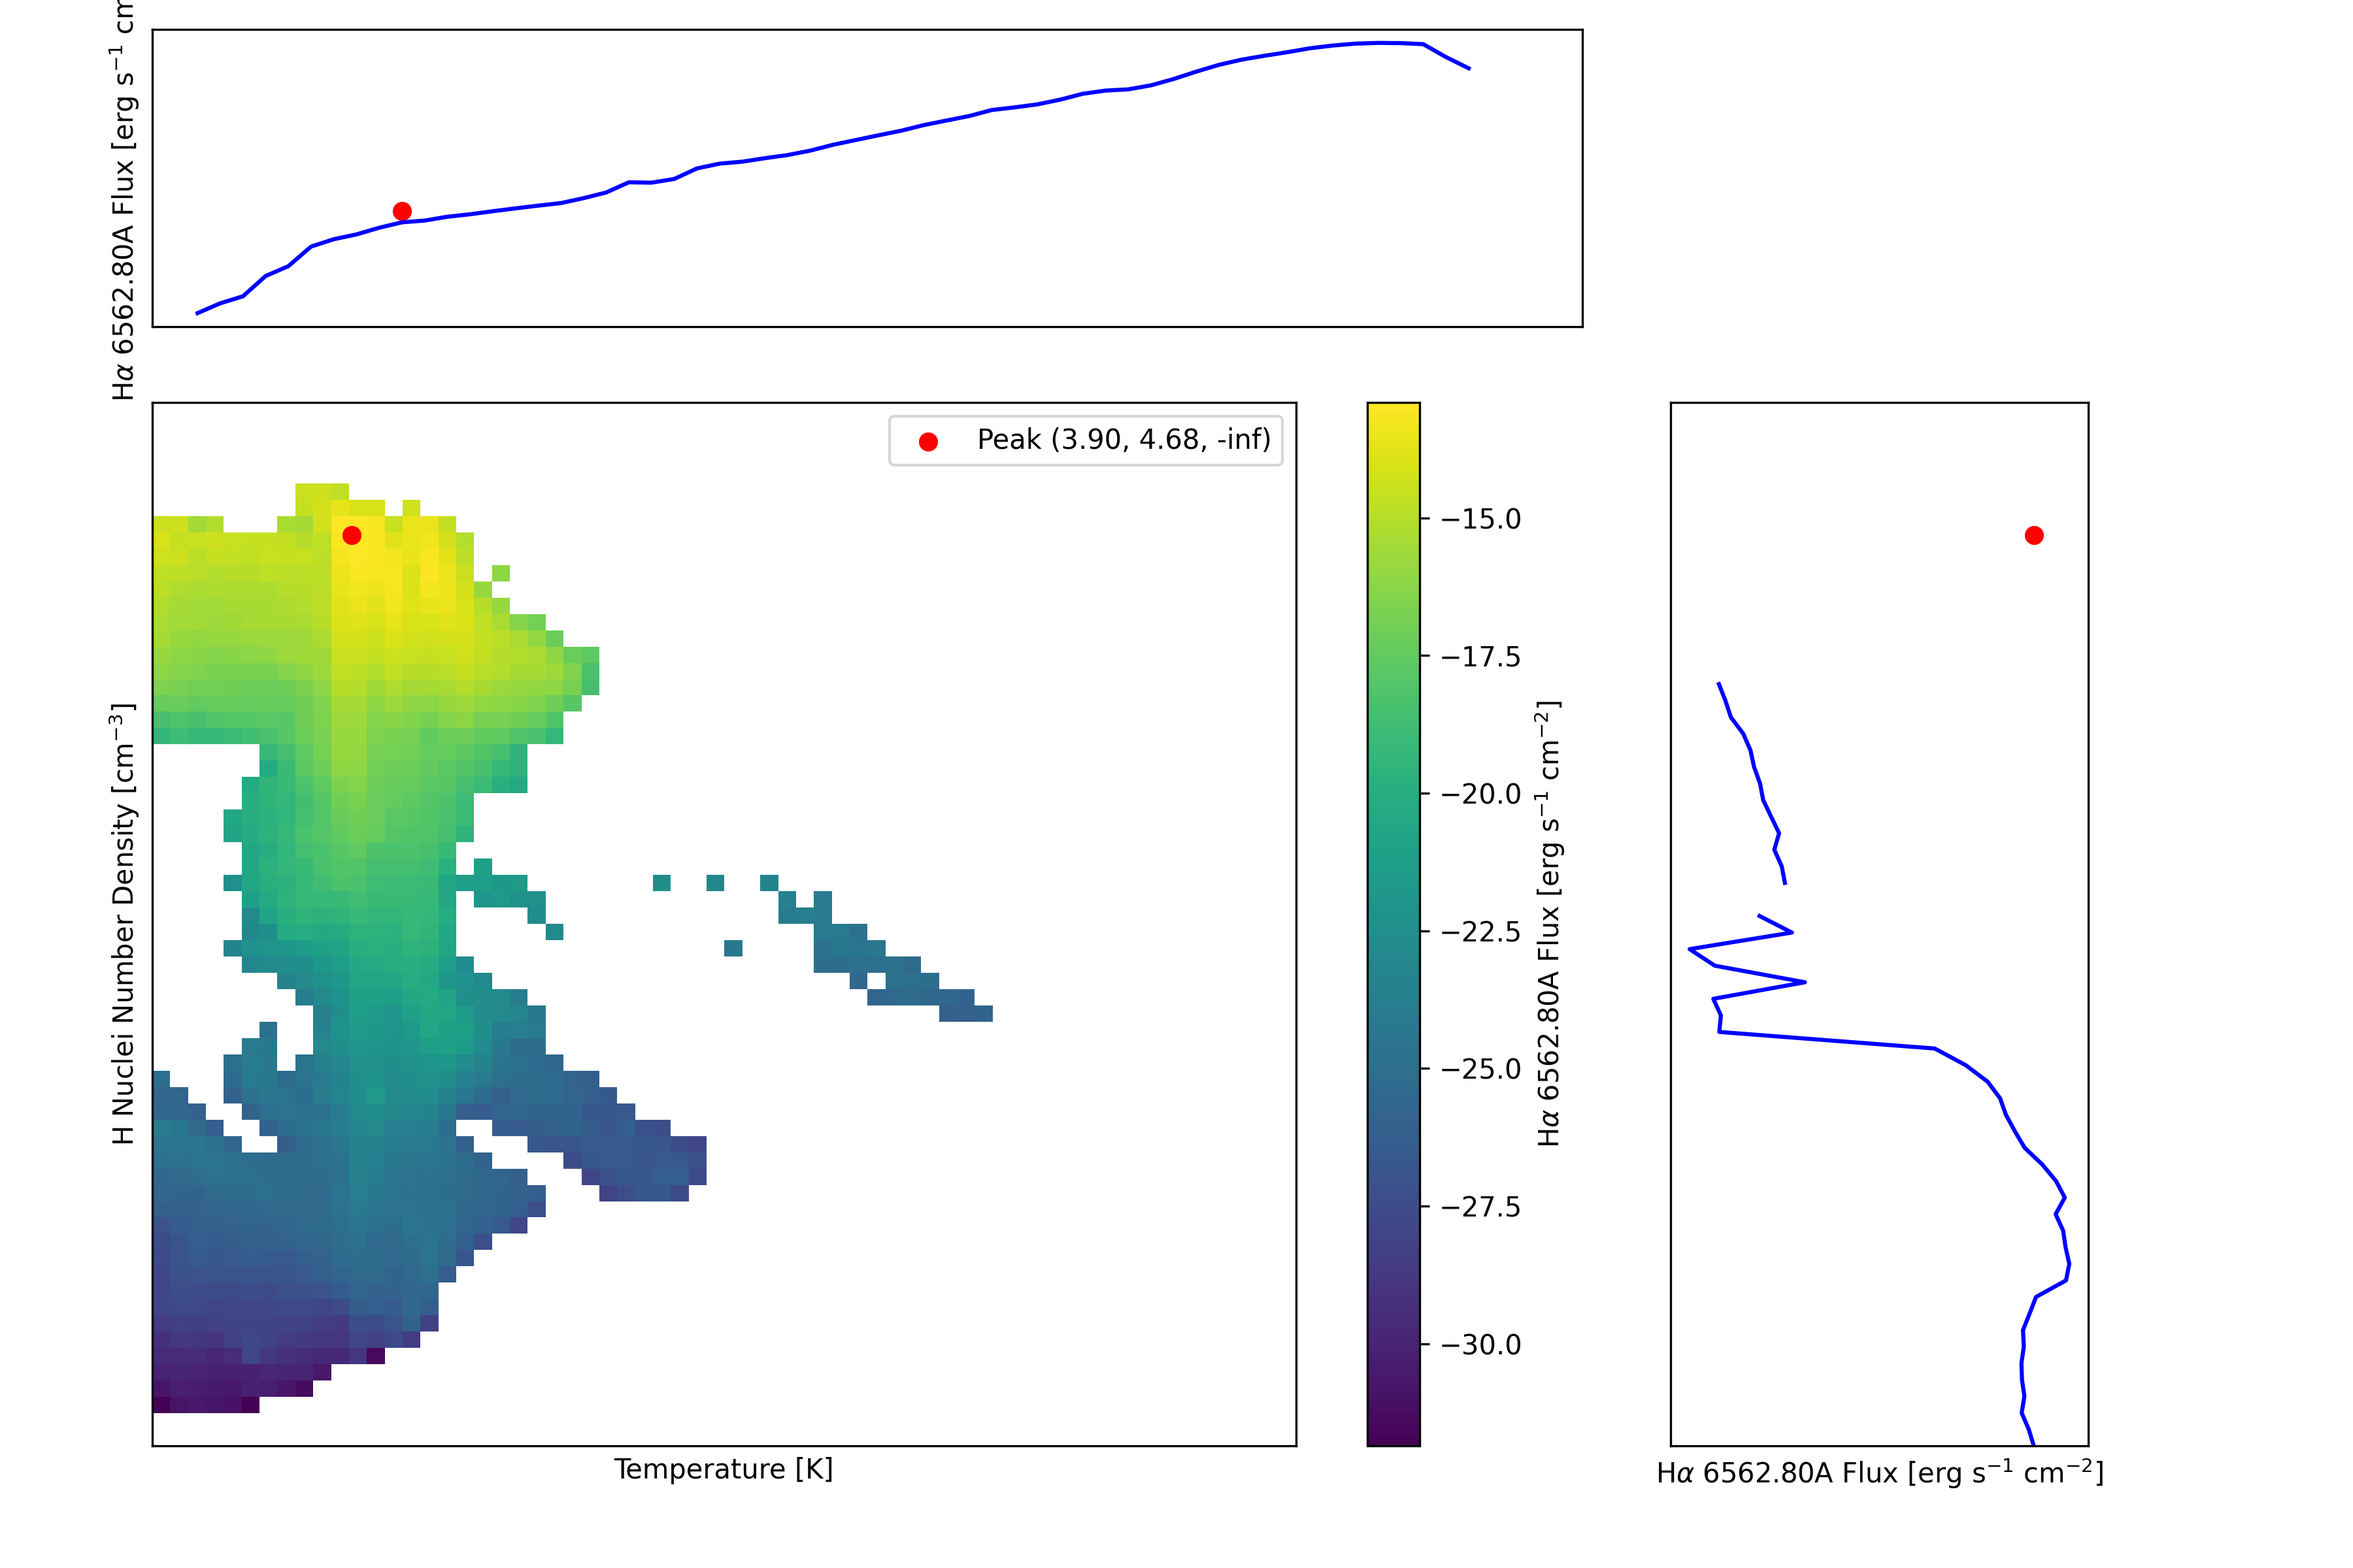
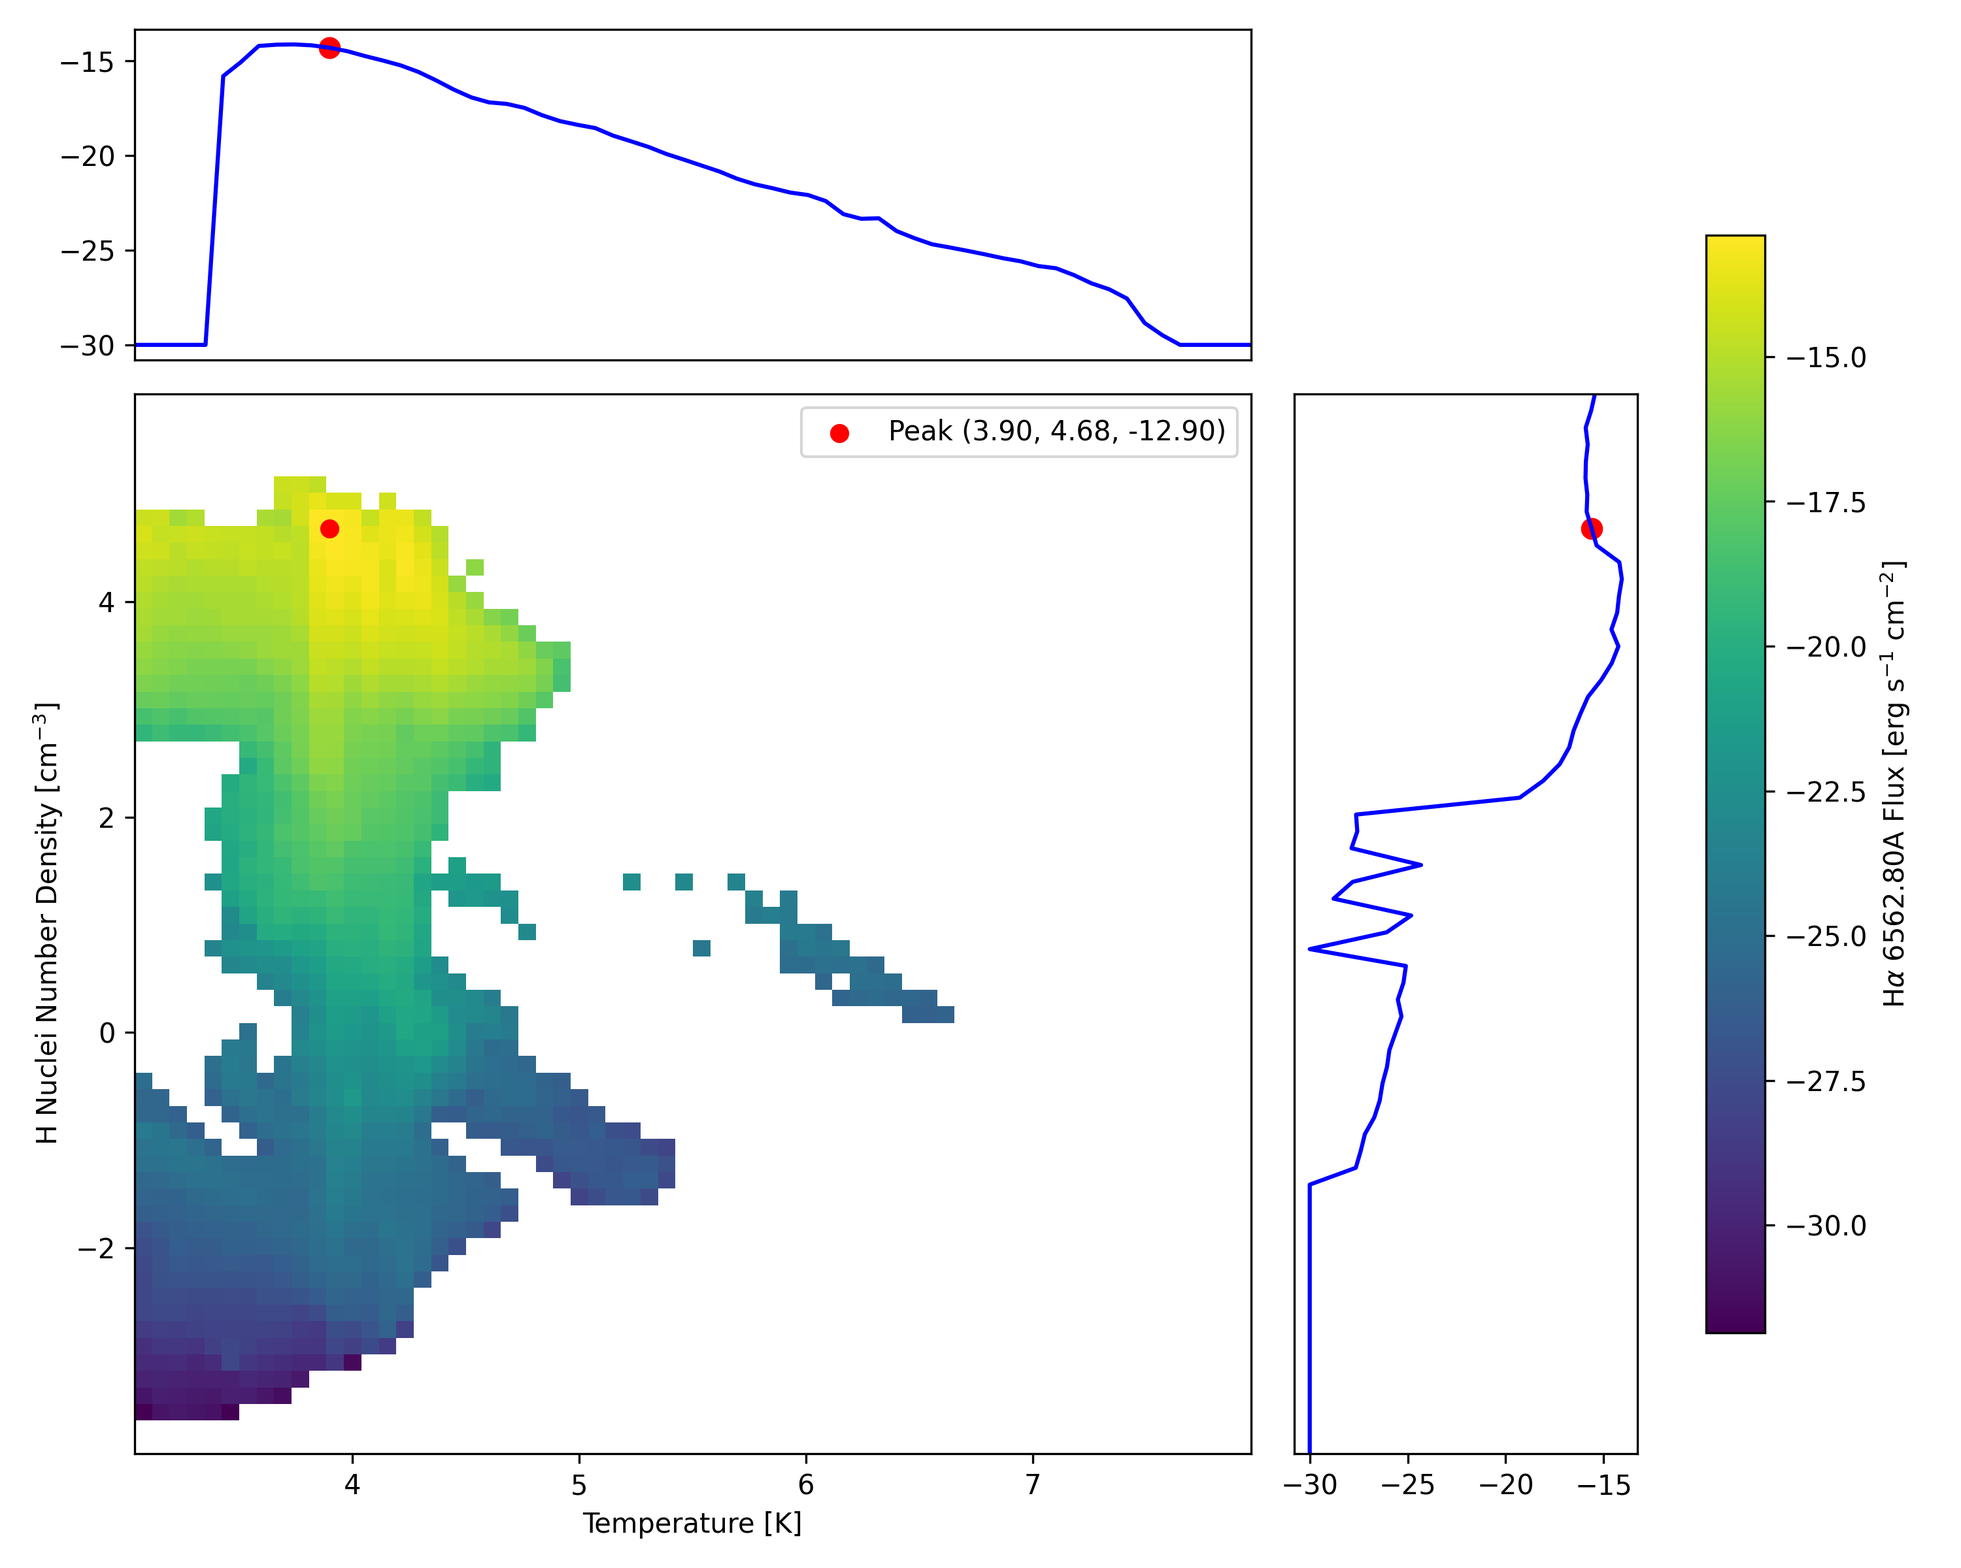
tweaks to phase with profile

diff --git a/nebular_lines_v2/galaxy_visualization.py b/nebular_lines_v2/galaxy_visualization.py
@@ -514,83 +514,70 @@ class VisualizationManager:
         plt.close()
     '''
 
-    
     def phase_with_profiles(self, ds, sp, phase_profile,
                         x_field, y_field, z_field,
                         x_vals, y_vals, z_vals, x_label, y_label,
                         z_label):
-        '''
-        Generate a phase plot with additional profile plots.
-        '''
-
         plot_title = f'{self.output_file}_' + \
-            f'{x_field[1]}_{y_field[1]}_{z_field[1]}_phase_profile.png'
+                    f'{x_field[1]}_{y_field[1]}_{z_field[1]}_phase_profile.png'
 
         fname = os.path.join(self.directory, plot_title)
 
+        # Logarithmic scaling of the data
         x_vals = np.log10(x_vals)
         y_vals = np.log10(y_vals)
         z_vals = np.log10(z_vals).transpose()
 
-        # Find the location of the peak z value (max of z_vals)
+        # Find the location of the peak z value
         peak_z_idx = np.unravel_index(np.argmax(z_vals), z_vals.shape)[::-1]
         peak_x = x_vals[peak_z_idx[0]]
         peak_y = y_vals[peak_z_idx[1]]
-        peak_z = z_vals[peak_z_idx]
+        peak_z = z_vals[peak_z_idx[1]][peak_z_idx[0]]
 
         # Create the figure and gridspec layout
-        fig = plt.figure(figsize=(12, 8))
+        fig = plt.figure(figsize=(10, 8))
         gs = GridSpec(4, 4, figure=fig)
 
         # Central phase plot (imshow)
-        ax0 = fig.add_subplot(gs[1:4, 0:3])
+        ax0 = fig.add_subplot(gs[1:4, 0:3])  # Phase plot takes a larger area
         cax = ax0.imshow(z_vals, origin="lower", aspect="auto",
                          extent=(min(x_vals), max(x_vals), min(y_vals),
                                  max(y_vals)))
         ax0.set_xlabel(x_label)
         ax0.set_ylabel(y_label)
-
-        # Add the red dot marking the peak
         ax0.scatter(peak_x, peak_y, color="red",
                     label=f"Peak ({peak_x:.2f}, {peak_y:.2f}, {peak_z:.2f})")
         ax0.legend(loc="upper right")
 
         # Profile plot at the top (z vs x)
-        # Averaging over y bins (along each x slice)
-        ax1 = fig.add_subplot(gs[0, 0:3], sharex=ax0)
-        avg_z_vals_x = np.mean(10 ** z_vals, axis=1)
+        ax1 = fig.add_subplot(gs[0, 0:3])  # Profile plot touching the top border of phase plot
+        avg_z_vals_x = np.mean(10 ** z_vals, axis=1)[::-1]
+        avg_z_vals_x[avg_z_vals_x < 1e-30] = 1e-30
         ax1.plot(x_vals, np.log10(avg_z_vals_x), color="blue")
-
-        # Add red dot on the x-profile plot for the peak
-        ax1.scatter(peak_x, np.log10(avg_z_vals_x[np.argmax(z_vals[peak_z_idx[0], :])]), color="red", label=f"Peak ({peak_x:.2f})")
-        ax1.set_ylabel(z_label)
+        # Add a red dot at the peak location on the top profile
+        ax1.scatter(peak_x, np.log10(avg_z_vals_x[np.argmax(x_vals == peak_x)]), color='red', s=50)  # Single red dot at peak
+        ax1.set_xlim(ax0.get_xlim())  # Ensure x-axis of top profile matches phase plot
+        ax1.tick_params(axis='x', which='both', bottom=False, top=False)  # Remove x-axis ticks
+        ax1.set_xticklabels([])
 
         # Profile plot on the right (z vs y)
-        # Averaging over x bins (along each y slice)
-        ax2 = fig.add_subplot(gs[1:4, 3], sharey=ax0)
-        avg_z_vals_y = np.mean(10 ** z_vals, axis=0)
+        ax2 = fig.add_subplot(gs[1:4, 3])  # Profile plot touching the right border of phase plot
+        avg_z_vals_y = np.mean(10 ** z_vals, axis=0)[::-1]
+        avg_z_vals_y[avg_z_vals_y < 1e-30] = 1e-30
         ax2.plot(np.log10(avg_z_vals_y), y_vals, color="blue")
+        # Add a red dot at the peak location on the right profile
+        ax2.scatter(np.log10(avg_z_vals_y[np.argmax(y_vals == peak_y)]), peak_y, color='red', s=50)  # Single red dot at peak
+        ax2.set_ylim(ax0.get_ylim())  # Ensure y-axis of right profile matches phase plot
+        ax2.tick_params(axis='y', which='both', left=False, right=False)  # Remove y-axis ticks
+        ax2.set_yticklabels([])
 
-        # Add red dot on the y-profile plot for the peak
-        ax2.scatter(np.log10(avg_z_vals_y[np.argmax(z_vals[:, peak_z_idx[1]])]), peak_y, color="red", label=f"Peak ({peak_y:.2f})")
-        ax2.set_xlabel(z_label)
+        # Adjust layout and position the colorbar
+        fig.tight_layout(rect=[0, 0, 0.85, 1])  # Leave more space for the colorbar
 
-        # Adjust the layout
-        fig.tight_layout(rect=[0, 0, 0.9, 1])
-
-        # Remove the ticks and labels from the borders of the phase plot
-        ax0.get_xaxis().set_ticks([])
-        ax0.get_yaxis().set_ticks([])
-
-        # Remove the ticks and labels on the profile axes that touch the phase plot
-        ax1.get_xaxis().set_ticks([])
-        ax1.get_yaxis().set_ticks([])
-
-        ax2.get_xaxis().set_ticks([])
-        ax2.get_yaxis().set_ticks([])
-
-        # Add colorbar on the right side
-        fig.colorbar(cax, ax=ax0, orientation='vertical', label=z_label)
+        # Add colorbar on the right side of the profile plot
+        #fig.colorbar(cax, ax=ax0, orientation='vertical', label=z_label, pad=0.05)
+        cbar_ax = fig.add_axes([0.87, 0.15, 0.03, 0.7])  # Position the colorbar outside the profile plot area
+        fig.colorbar(cax, cax=cbar_ax, orientation='vertical', label=z_label)
 
         # Save the figure
         plt.savefig(fname, dpi=300)
